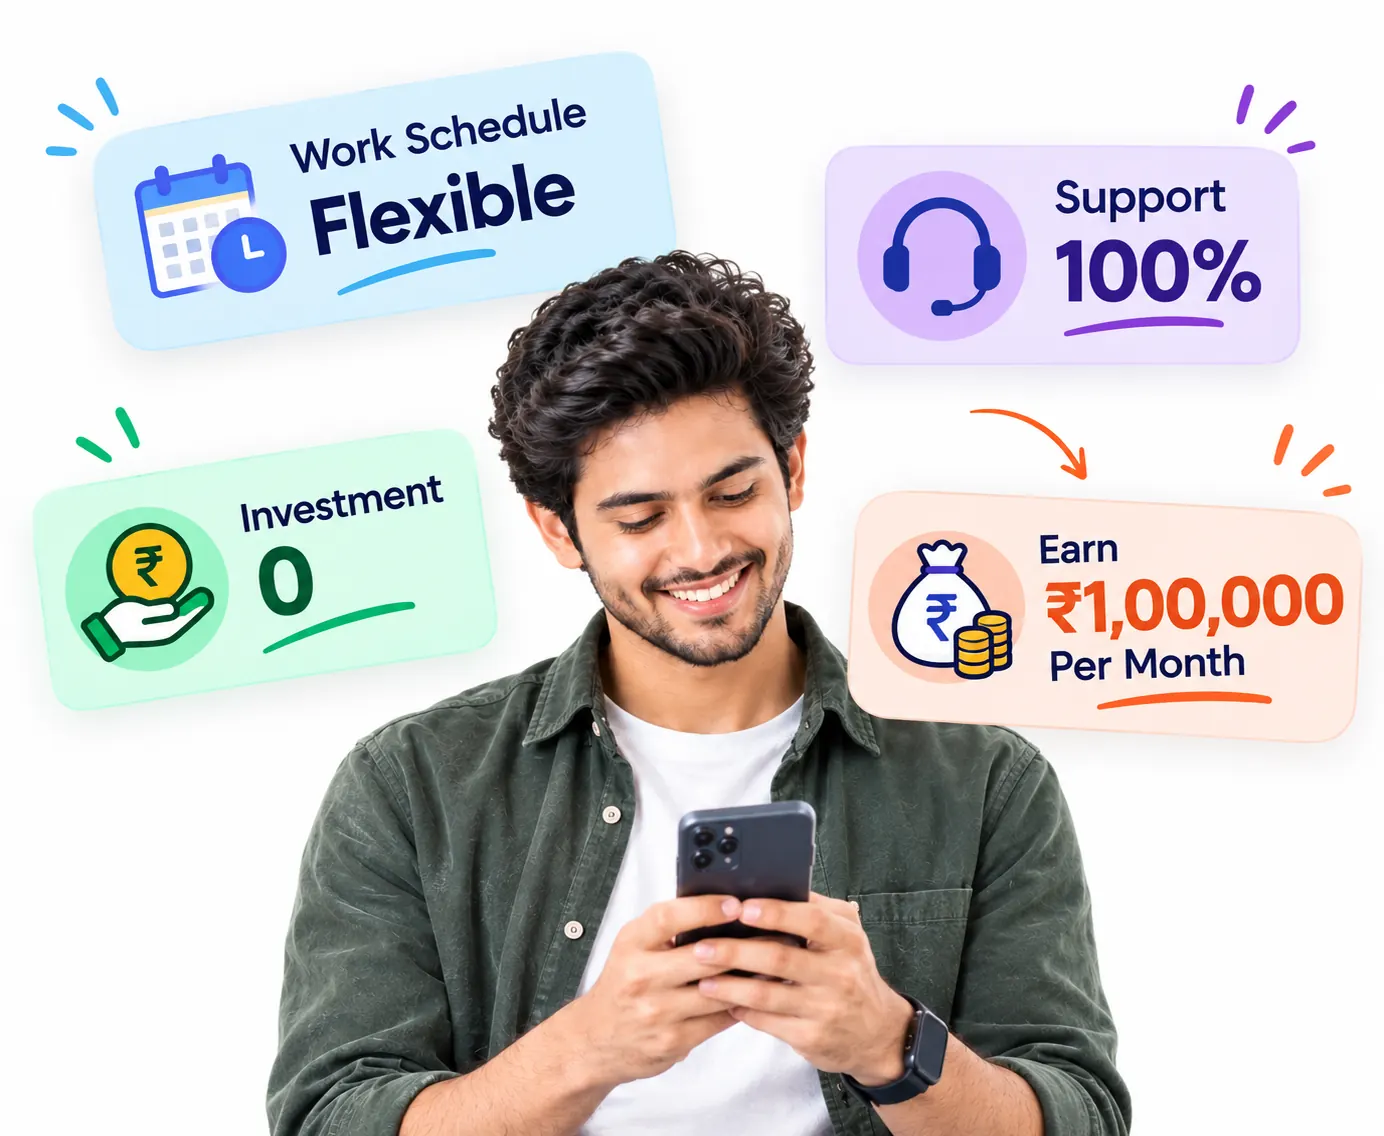
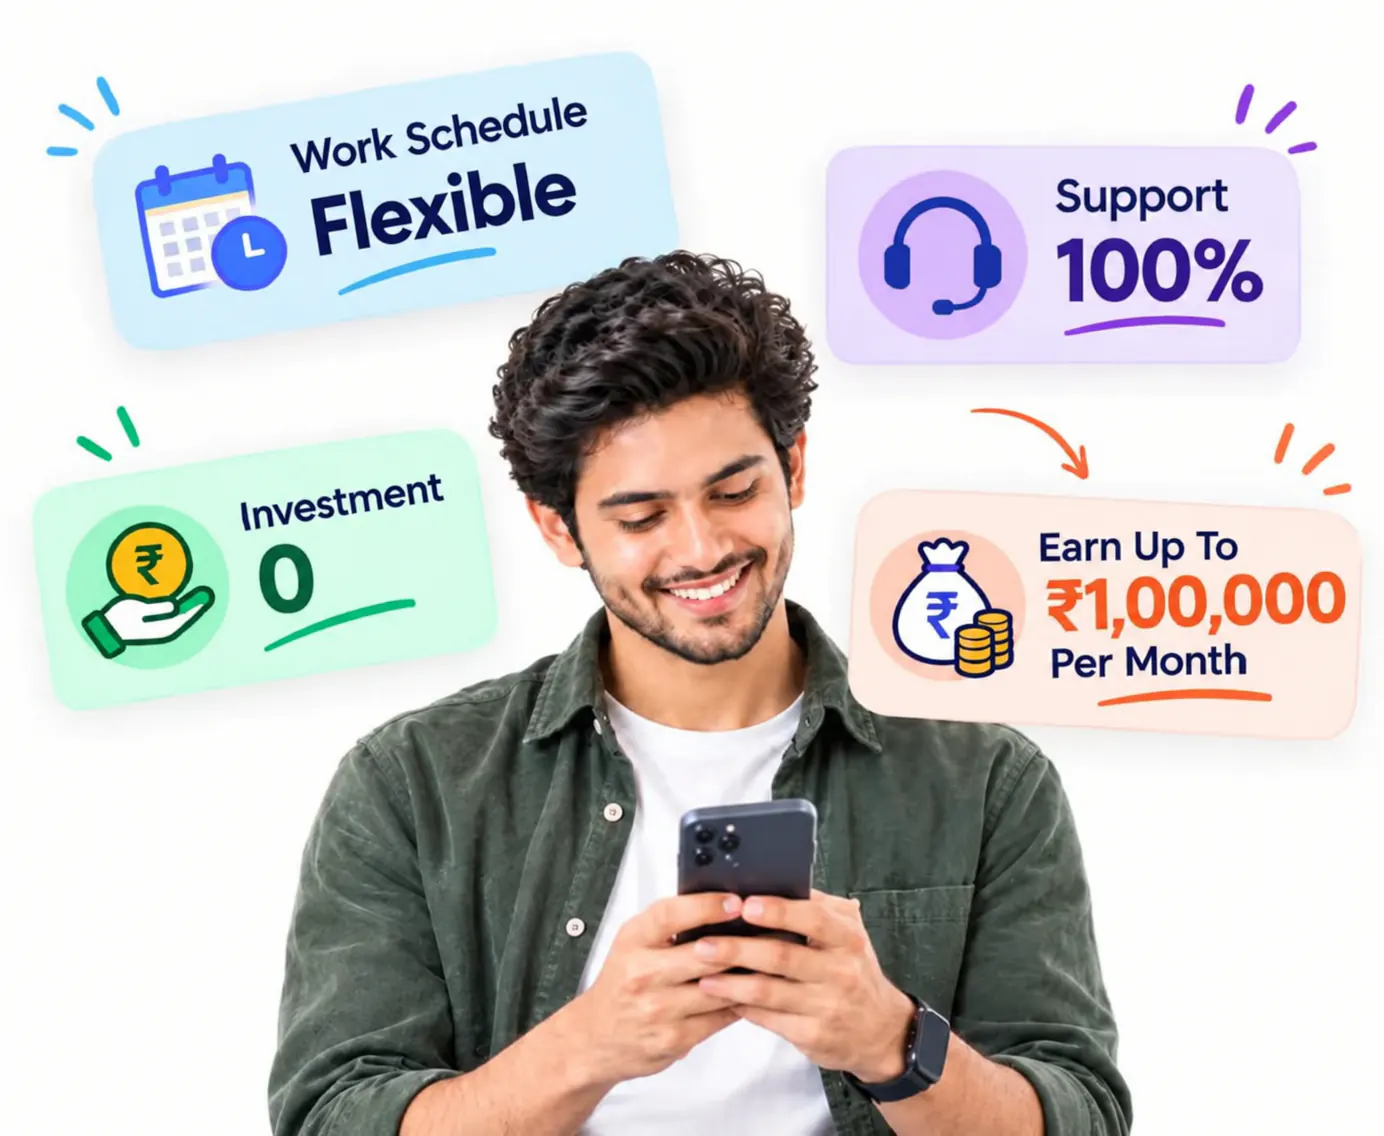
cc

diff --git a/app/become-partner/components/partner-audience/index.tsx b/app/become-partner/components/partner-audience/index.tsx
@@ -181,20 +181,44 @@ function AudienceCard({ item }: { item: (typeof audiences)[number] }) {
   );
 }
 
-const partnerCollage = (
-  <Image
-    src="/images/features/work.webp"
-    alt="People who can become partners, including DSA and loan agents, insurance advisors, property dealers, CAs, shopkeepers, freelancers, students, retired professionals, CSC operators, influencers, homemakers, and sales consultants"
-    width={1024}
-    height={1536}
-    sizes="(min-width: 1024px) 28vw, 100vw"
-    className="h-auto w-full rounded-xl shadow-[0_16px_40px_rgba(15,23,42,0.16)] lg:h-full lg:object-cover"
-  />
-);
+const collageAlt =
+  "People who can become partners, including DSA and loan agents, insurance advisors, property dealers, CAs, shopkeepers, freelancers, students, retired professionals, CSC operators, influencers, homemakers, and sales consultants";
+
+function PartnerCollage() {
+  return (
+    <Image
+      src="/images/features/work.webp"
+      alt={collageAlt}
+      width={1024}
+      height={1536}
+      sizes="100vw"
+      className="h-auto w-full rounded-xl shadow-[0_16px_40px_rgba(15,23,42,0.16)]"
+    />
+  );
+}
+
+const imageLeft = [
+  "Existing DSA & Loan Agents",
+  "Real Estate Agents & Property Dealers",
+  "Small Business Owners & Shopkeepers",
+  "Students & Freshers",
+  "CSC & E-Mitra Operators",
+  "Social Media Influencers",
+] as const;
+
+const imageRight = [
+  "Insurance Agents & Financial Advisors",
+  "CA & Tax Consultants",
+  "Freelancers & Finance Enthusiasts",
+  "Retired Professionals & Bank Employees",
+  "Sales Professionals & Business Consultants",
+  "Housewives & Homemakers",
+] as const;
 
 export default function PartnerAudience() {
-  const left = audiences.slice(0, 6);
-  const right = audiences.slice(6);
+  const byTitle = new Map(audiences.map((item) => [item.title, item]));
+  const left = imageLeft.map((title) => byTitle.get(title)!);
+  const right = imageRight.map((title) => byTitle.get(title)!);
 
   return (
     <section aria-labelledby="who-can-become-dsa" className="bg-white px-4 py-10 dark:bg-darkmode sm:px-6 sm:py-14">
@@ -204,7 +228,9 @@ export default function PartnerAudience() {
         </h2>
 
         <div className="grid items-center gap-6 lg:hidden">
-          <div className="order-1 flex items-center justify-center">{partnerCollage}</div>
+          <div className="order-1 flex items-center justify-center">
+            <PartnerCollage />
+          </div>
           <ul className="order-2 grid grid-cols-1 gap-y-3 sm:gap-x-2.5 sm:gap-y-4 md:grid-cols-2">
             {audiences.map((item) => (
               <li
@@ -217,31 +243,28 @@ export default function PartnerAudience() {
           </ul>
         </div>
 
-        <div className="hidden lg:grid lg:grid-cols-[minmax(0,1fr)_minmax(240px,0.95fr)_minmax(0,1fr)_minmax(0,1fr)] lg:grid-rows-6 lg:items-stretch lg:gap-4">
-          <ul className="contents">
-            {left.map((item, index) => (
-              <li
-                key={item.title}
-                style={{ gridColumn: 1, gridRow: index + 1 }}
-                className={`flex min-h-0 items-center gap-3 rounded-xl px-3.5 py-2 ${item.chip}`}
-              >
+        <div className="hidden w-full lg:grid lg:grid-cols-[minmax(0,1fr)_auto_minmax(0,1fr)] lg:items-stretch lg:gap-4">
+          <ul className="grid grid-rows-6 gap-3">
+            {left.map((item) => (
+              <li key={item.title} className={`flex h-[4.75rem] items-center gap-2.5 rounded-xl px-3 ${item.chip}`}>
                 <AudienceCard item={item} />
               </li>
             ))}
           </ul>
-          <div className="min-h-0" style={{ gridColumn: 2, gridRow: "1 / span 6" }}>
-            {partnerCollage}
+          <div className="flex h-full min-h-0 items-stretch self-stretch">
+            <div className="relative h-full" style={{ aspectRatio: "1024 / 1536" }}>
+              <Image
+                src="/images/features/work.webp"
+                alt={collageAlt}
+                fill
+                sizes="420px"
+                className="rounded-xl object-contain shadow-[0_16px_40px_rgba(15,23,42,0.16)]"
+              />
+            </div>
           </div>
-          <ul className="contents">
-            {right.map((item, index) => (
-              <li
-                key={item.title}
-                style={{
-                  gridColumn: 3 + (index % 2),
-                  gridRow: `${Math.floor(index / 2) * 2 + 1} / span 2`,
-                }}
-                className={`flex min-h-0 items-center gap-3 rounded-xl px-3.5 py-2 ${item.chip}`}
-              >
+          <ul className="grid grid-rows-6 gap-3">
+            {right.map((item) => (
+              <li key={item.title} className={`flex h-[4.75rem] items-center gap-2.5 rounded-xl px-3 ${item.chip}`}>
                 <AudienceCard item={item} />
               </li>
             ))}
